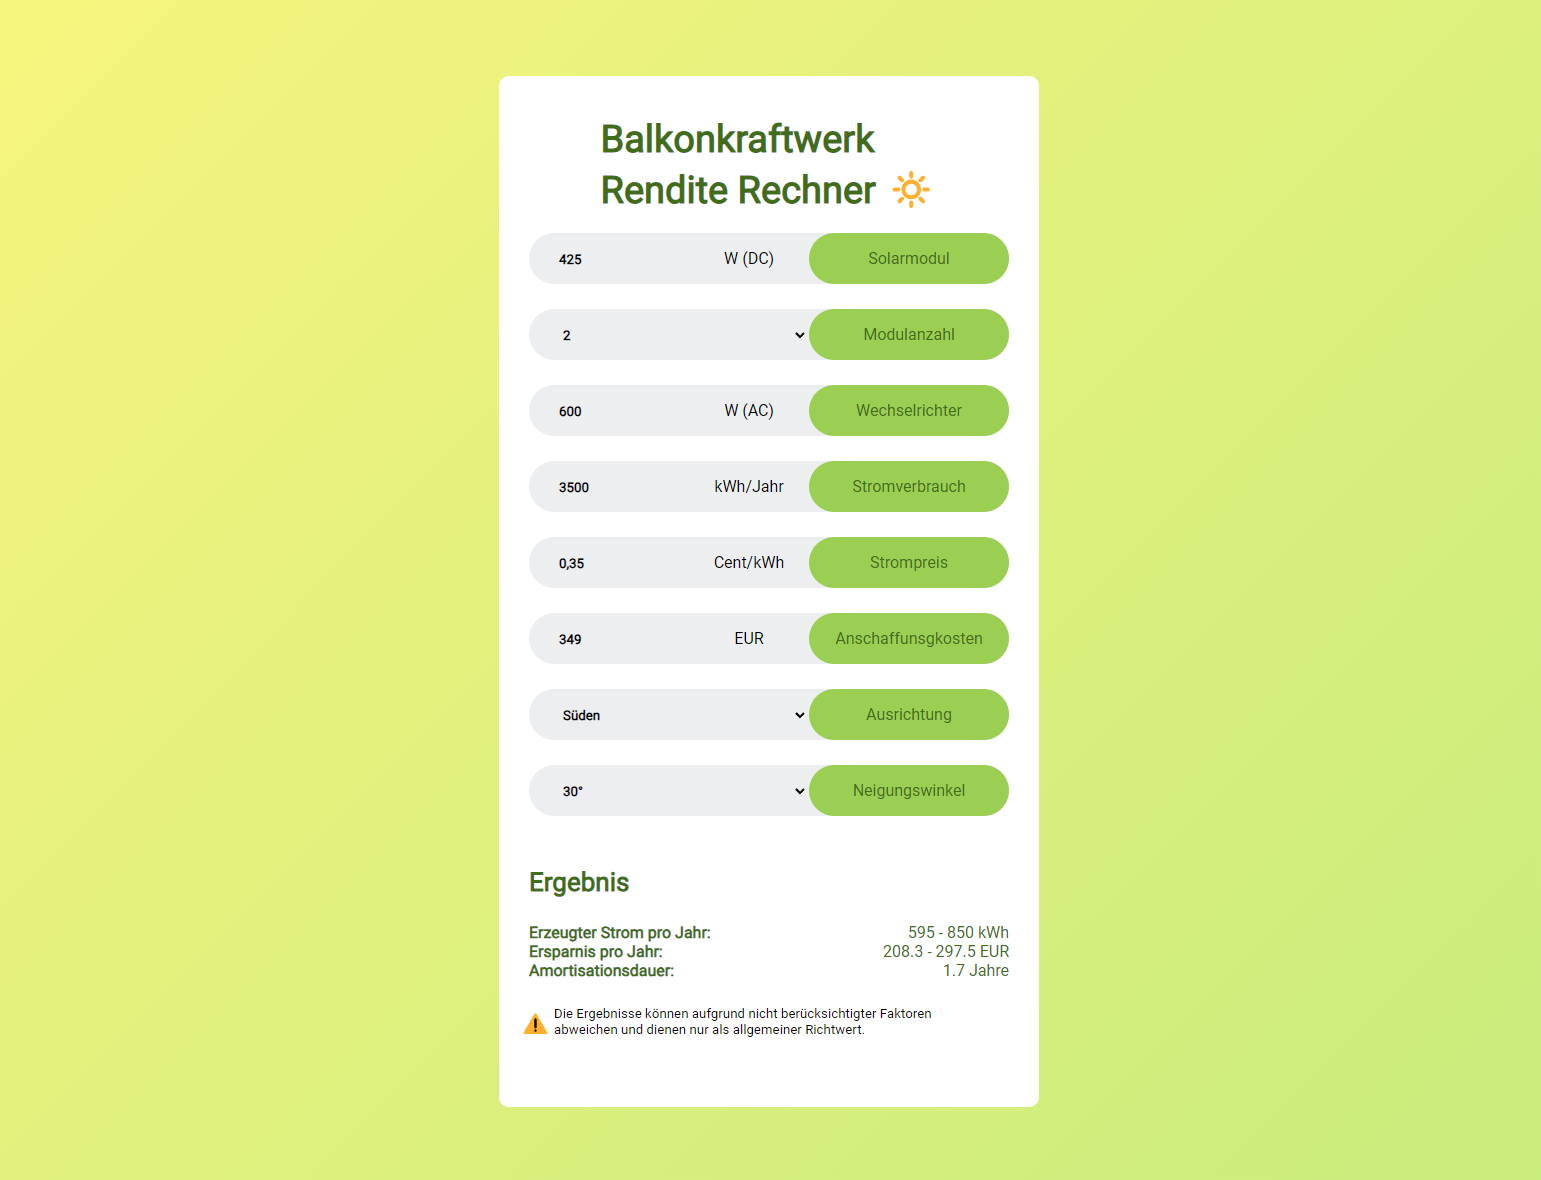
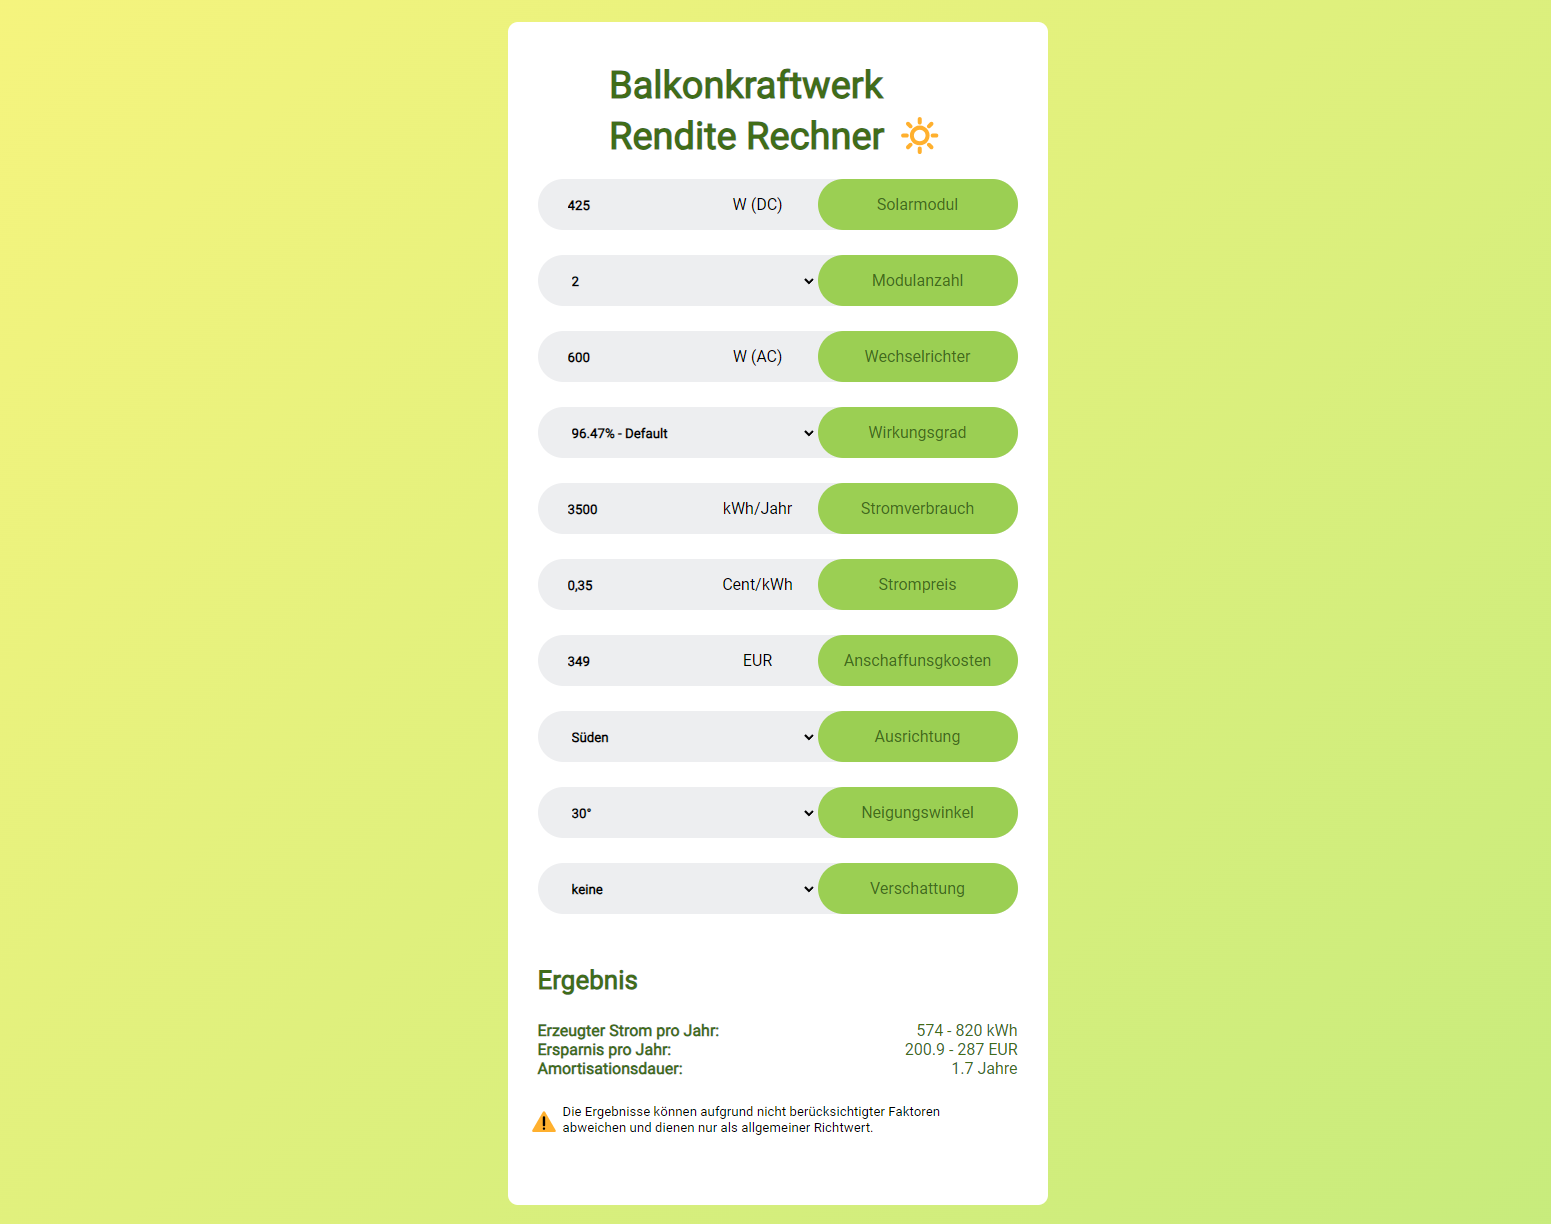
Add inverter efficiency

diff --git a/assets/js/bkw.js b/assets/js/bkw.js
@@ -35,6 +35,7 @@ export default class BKW {
 			module_watt : document.getElementById( 'module_watt' ),
 			module_count : document.getElementById( 'module_count' ),
 			inverter_wp : document.getElementById( 'inverter_wp' ),
+			inverter_efficiency : document.getElementById( 'inverter_efficiency' ),
 			yearly_usage : document.getElementById( 'yearly_usage' ),
 			price_kwh : document.getElementById( 'price_kwh' ),
 			acquisition_costs : document.getElementById( 'acquisition_costs' ),
@@ -75,6 +76,7 @@ export default class BKW {
 	 *
 	 */
 	calculate(){
+		let inverter_efficiency = this.parse(this.elements.inverter_efficiency.value);
 		let shading_factor = this.parse(this.elements.shading.value);
 		let tilt_factor = this.parse(this.elements.tilt.value);
 		if( this.debug ) console.log( 'tilt_factor', tilt_factor );
@@ -83,8 +85,8 @@ export default class BKW {
 		let yearly_costs = ( this.elements.yearly_usage.value * this.parse( this.elements.price_kwh.value ) );
 		if( this.debug ) console.log( 'yearly_costs', yearly_costs );
 		let generated_electricity = {
-			minimum : ( peak_watt * this.factor.min * this.elements.orientation.value * tilt_factor * shading_factor ),
-			maximum : ( peak_watt * this.factor.max * this.elements.orientation.value * tilt_factor * shading_factor )
+			minimum : ( peak_watt * this.factor.min * this.elements.orientation.value * tilt_factor * shading_factor * inverter_efficiency ),
+			maximum : ( peak_watt * this.factor.max * this.elements.orientation.value * tilt_factor * shading_factor * inverter_efficiency )
 		};
 		if( this.debug ) console.log( 'generated_electricity', generated_electricity.minimum, generated_electricity.maximum );
 		let generated_return = {

diff --git a/index.html b/index.html
@@ -32,6 +32,16 @@
 				<span class="bkw-input-descriptor">Wechselrichter</span>
 			</div>
 			<div class="bkw-input-wrap">
+				<select class="bkw-input-select" id="inverter_efficiency">
+					<option value="0.9647" selected>96.47% - Default</option>
+					<option value="0.973">97.30% - APSystems</option>
+					<option value="0.961">96.10% - Letrika</option>
+					<option value="0.960">96.00% - Hoymiles</option>
+					<option value="0.930">93.00% - Deye</option>
+				</select>
+				<span class="bkw-input-descriptor">Wirkungsgrad</span>
+			</div>
+			<div class="bkw-input-wrap">
 				<input class="bkw-input-text" type="text" value="3500" id="yearly_usage">
 				<span class="bkw-input-unit">kWh/Jahr</span>
 				<span class="bkw-input-descriptor">Stromverbrauch</span>

diff --git a/README.md b/README.md
@@ -7,6 +7,23 @@ Solar Balkonkraftwerk Rendite Rechner
 
 ### 🔸Formeln & Faktoren
 
+Modell           | Wirkungsgrad | Faktor
+-----------------|--------------|-------
+EZ1-M            | 97.30%       | 0.973
+Default          | 96.47%       | 0.9647
+SMI260           | 96.10%       | 0.961
+HM-800           | 96.00%       | 0.960
+HMS-800W-2T      | 96.00%       | 0.960
+SUN-M80 G4-EU-Q0 | 93.00%       | 0.930
+
+Manufacturer | Model 
+-------------|-------
+APSystems    | EZ1-M
+Letrika      | SMI260
+Hoymiles     | HM-800
+Hoymiles     | HMS-800W-2T
+Deye         | SUN-M80 G4-EU-Q0
+
 Ausrichtung | Faktor
 ------------|-------
 Norden      | 0.57
